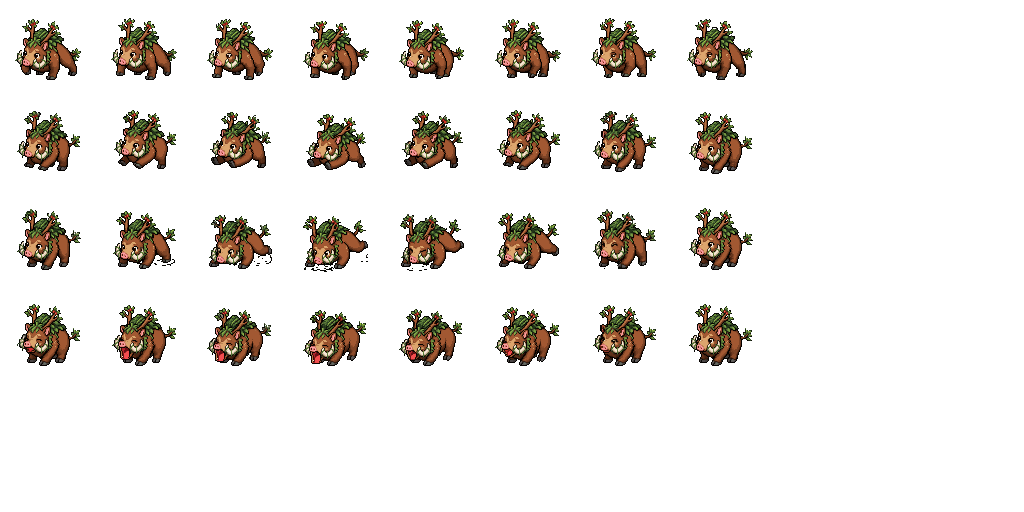
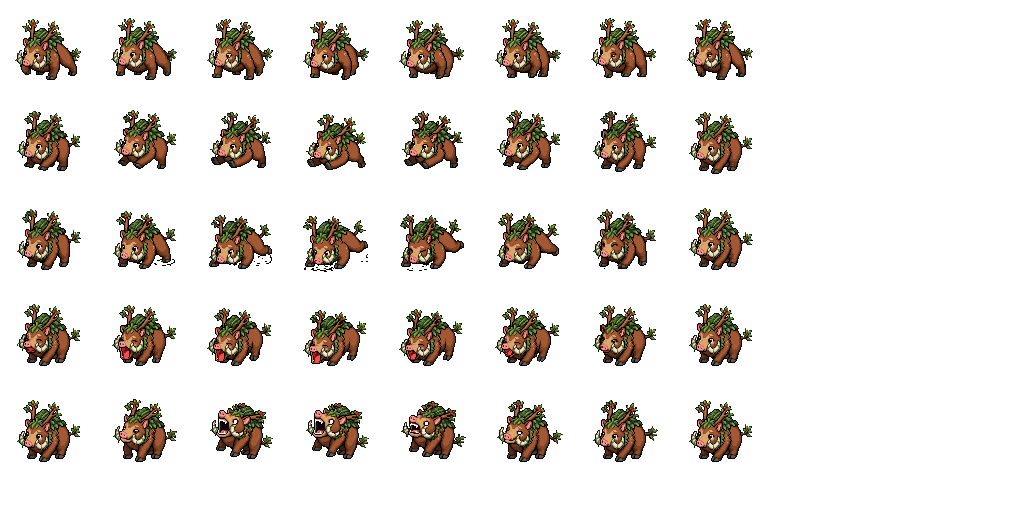
Companion: a timed catch for a tossed treat
What a player notices:

- Click Treat, then your companion: the biscuit goes up over its head.
  Click it again as the biscuit comes down past its head and it leaps
  and catches it, which is a little more fun than a treat set down.
- Too soon or too late it jumps at nothing, and that click is spent.
- Missed or left alone, the biscuit lands on the grass and is eaten
  there. The treat is never wasted.
- Every one of the eighteen forms has its own leap for it.

Why, and how:

- Before this a click on the creature with a treat in hand was a catch
  every time, with the plain jump. Now the treat is in the air for 1.6
  seconds (Pet.Tossed says where) and can be caught for about a third
  of a second of that; Pet.Petted decides.
- The leap is a fifth row in each form's <name>_more.png, which
  tools/make_pet_sheet.py packs when the frames are there.

Changed region(s): [[0.0, 0.7812, 0.75, 0.9062]]

diff --git a/tools/make_pet_sheet.py b/tools/make_pet_sheet.py
@@ -131,8 +131,11 @@ def special(folder, lay, ground=None, kind=SPECIAL):
 # its walk), and Cheer, Dig and Yawn (each ending as it stands). They share one
 # picture, <name>_more.png, 1024 by 512: 96-pixel cells, ten to a row, a row
 # for each in that order, the creature standing in a cell where it stands in
-# the middle of a cell of its sheet. All four must be there, or none.
+# the middle of a cell of its sheet. All four must be there, or none. A fifth,
+# Catch (a leap and a snap at a treat over its head, ending as it stands), goes
+# in the fifth row when it's there.
 MORE = ("Run", "Cheer", "Dig", "Yawn")
+ALSO = ("Catch",)
 
 
 def more(folder, lay, ground=None, walk_feet=None):
@@ -146,6 +149,13 @@ def more(folder, lay, ground=None, walk_feet=None):
         assert len(files) == per, (name, len(files), per)
         rows.append((name, [Image.open(file).convert("RGBA") for file in files]))
     assert len(rows) == len(MORE), [name for name, _ in rows]
+    for name in ALSO:
+        files = sorted((folder / name / "south-west").glob("frame_*.png"))
+        if files:
+            assert len(files) == per, (name, len(files), per)
+            rows.append((name, [Image.open(file).convert("RGBA") for file in files]))
+        else:
+            print("  no", name, "yet")
     sheet = Image.new("RGBA", (1024, 512), (0, 0, 0, 0))
     room = (side - 64) // 2 + lay["shift"]
     for row, (name, ims) in enumerate(rows):
